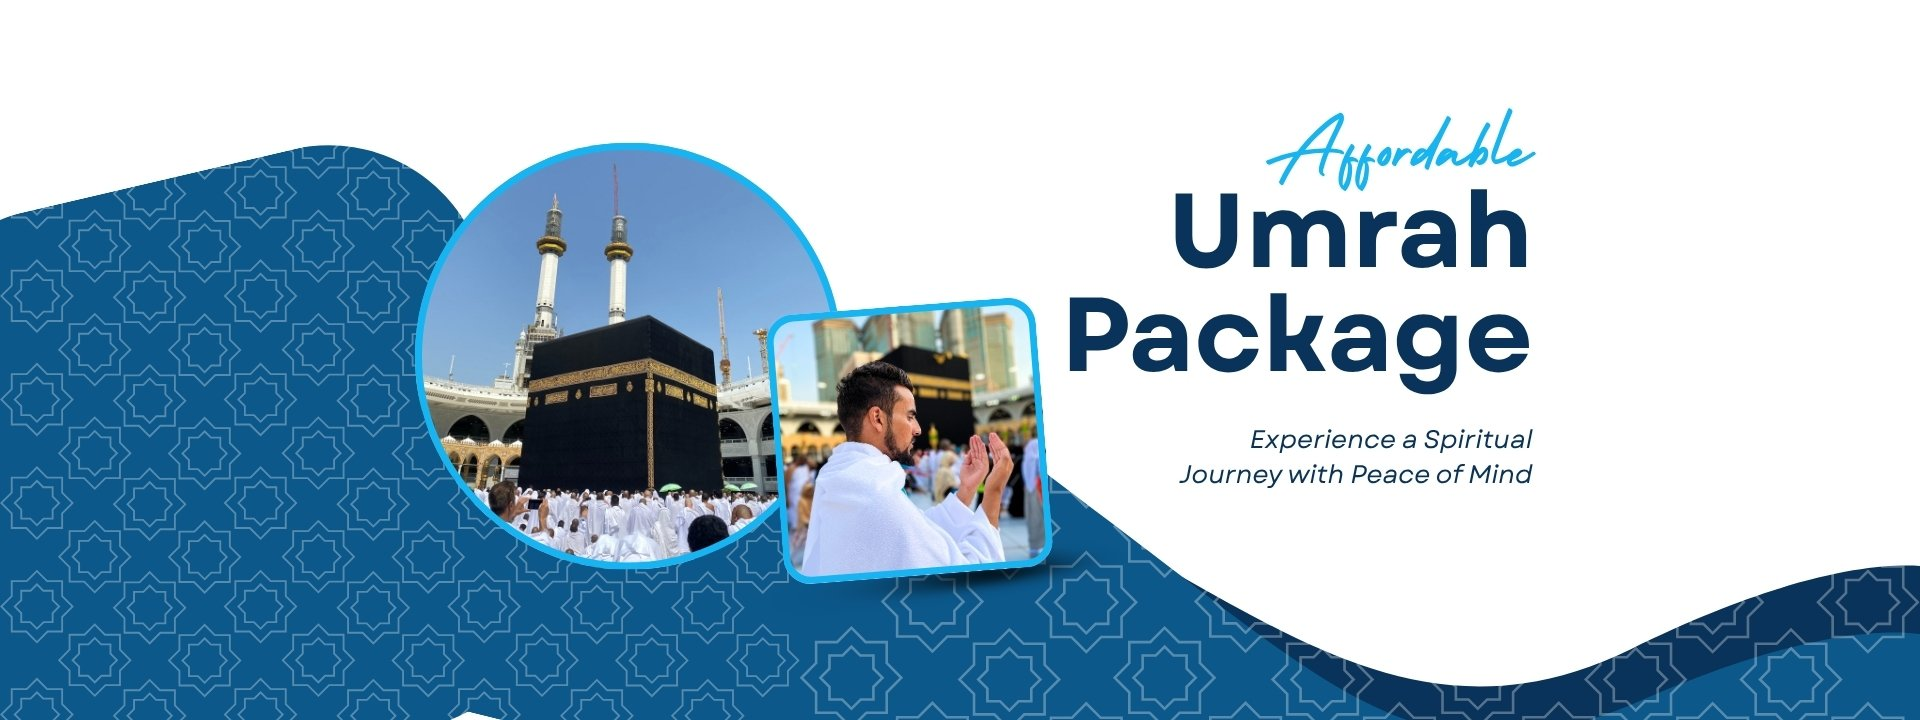
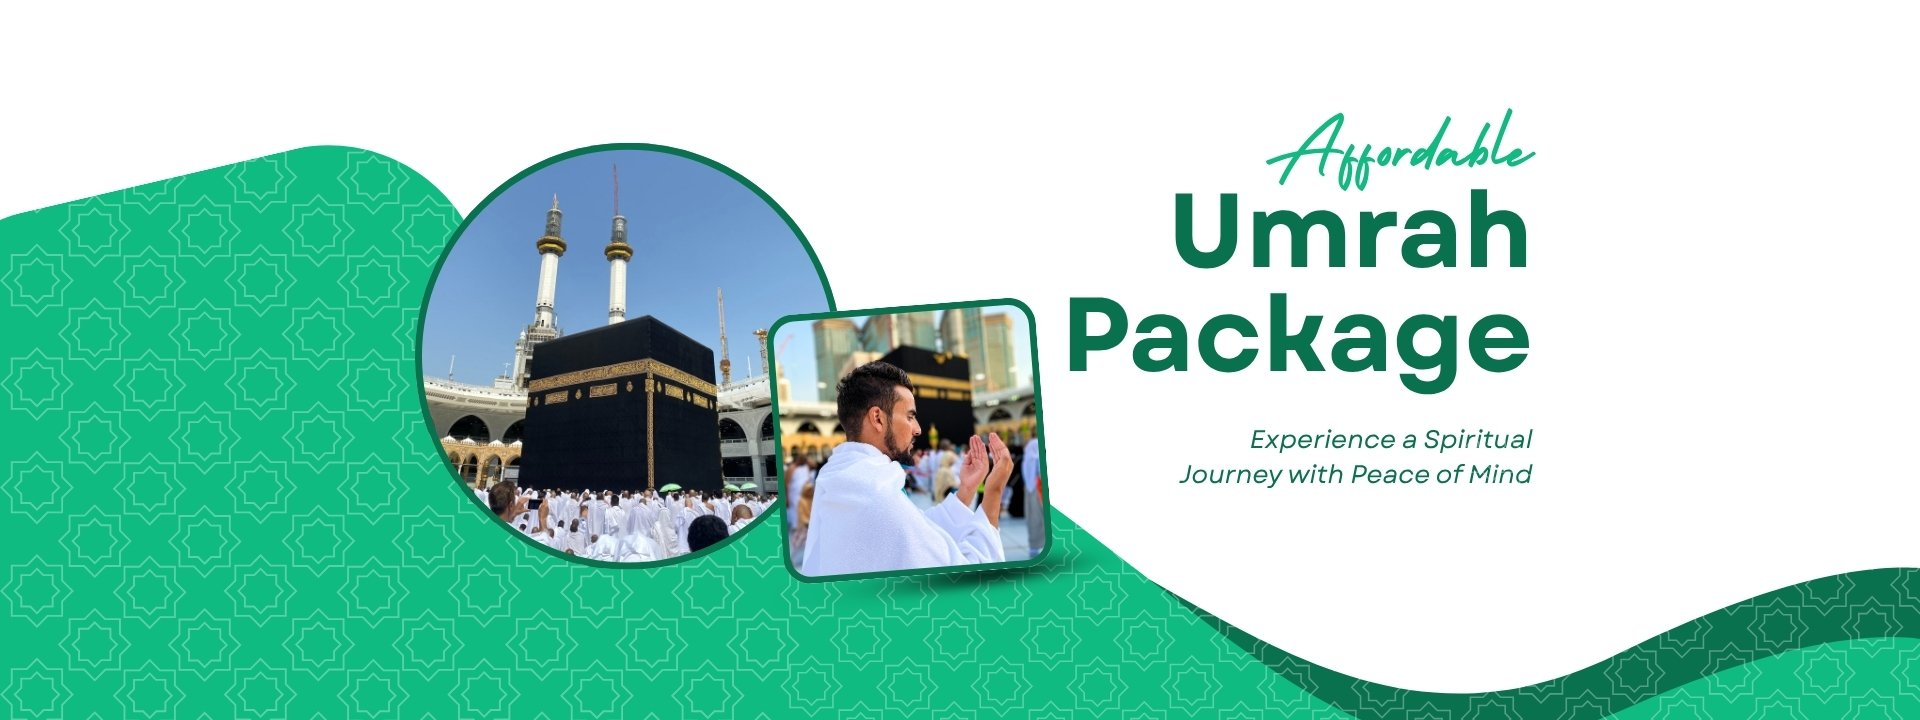
group pkg detail pg

diff --git a/src/pages/PackageDetailDynamic.tsx b/src/pages/PackageDetailDynamic.tsx
@@ -7,7 +7,7 @@ import { Tabs, TabsList, TabsTrigger, TabsContent } from '@/components/ui/tabs';
 import { Card, CardHeader, CardTitle, CardContent } from '@/components/ui/card';
 import { Badge } from '@/components/ui/badge';
 import { Button } from '@/components/ui/button';
-import { Users, Plane, Calendar, Star, CheckCircle, CreditCard, Info, MapPin, Utensils, X, Bed } from 'lucide-react';
+import { Users, Plane, Calendar, Star, CheckCircle, CreditCard, Info, MapPin, Utensils, X, Bed, Sparkles } from 'lucide-react';
 import ResponsiveBanner from '../components/ResponsiveBanner';
 
 const PackageDetailDynamic = () => {
@@ -95,7 +95,7 @@ const PackageDetailDynamic = () => {
     const fetchActivities = async () => {
       const { data, error } = await supabase
         .from('activities')
-        .select('id, name, description')
+        .select('id, name, description, featured_image')
         .in('id', pkg.activities);
       if (!error && data) setActivityDetails(data);
     };
@@ -185,67 +185,78 @@ const PackageDetailDynamic = () => {
                 <TabsTrigger value="pricing" className="flex-1 text-center data-[state=active]:bg-[#023f3a] data-[state=active]:text-white rounded-lg font-medium py-3">Pricing</TabsTrigger>
                 <TabsTrigger value="terms" className="flex-1 text-center data-[state=active]:bg-[#023f3a] data-[state=active]:text-white rounded-lg font-medium py-3">Terms</TabsTrigger>
               </TabsList>
-              {/* Overview Tab */}
+              {/* Enhanced Overview Tab Layout */}
               <TabsContent value="overview" className="space-y-8">
-                {/* Package Title and Description */}
-                <div className="mb-6">
-                  <h2 className="text-3xl font-bold text-gray-900 mb-2">{pkg.title}</h2>
-                  {pkg.description && <p className="text-lg text-gray-700">{pkg.description}</p>}
+                {/* Hero Card */}
+                <div className="mb-8 bg-gradient-to-br from-emerald-50 to-white rounded-2xl shadow-xl p-8 border border-emerald-200 animate-fade-in-up">
+                  <div className="flex flex-wrap gap-3 items-center mb-2">
+                    {pkg.package_type && (
+                      <span className="inline-flex items-center bg-blue-100 text-blue-800 font-bold px-3 py-1 rounded-full text-sm shadow border border-blue-200">
+                        🕋 {pkg.package_type === 'group' ? 'Group Package' : pkg.package_type === 'independent' ? 'Independent Package' : pkg.package_type}
+                      </span>
+                    )}
+                    {pkg.package_category && (
+                      <span className="inline-flex items-center bg-emerald-100 text-emerald-800 font-bold px-3 py-1 rounded-full text-sm shadow border border-emerald-200">
+                        {pkg.package_category}
+                      </span>
+                    )}
+                  </div>
+                  <h1 className="text-4xl md:text-5xl font-extrabold text-emerald-900 leading-tight drop-shadow mb-2">{pkg.name}</h1>
+                  {pkg.description && (
+                    <p className="text-lg md:text-xl text-gray-700 leading-relaxed mb-4 prose max-w-none">{pkg.description}</p>
+                  )}
+                  {/* Quick Facts Row */}
+                  <div className="flex flex-wrap gap-3 items-center mt-4">
+                    <span className="inline-flex items-center bg-emerald-50 text-emerald-800 px-3 py-1 rounded-full text-sm font-medium gap-1"><Calendar className="w-4 h-4" />{pkg.duration}</span>
+                    {pkg.departure_date && (
+                      <span className="inline-flex items-center bg-blue-50 text-blue-800 px-3 py-1 rounded-full text-sm font-medium gap-1"><Plane className="w-4 h-4" />{new Date(pkg.departure_date).toLocaleDateString()}</span>
+                    )}
+                    {pkg.cities_covered && pkg.cities_covered.length > 0 && (
+                      <span className="inline-flex items-center bg-yellow-50 text-yellow-800 px-3 py-1 rounded-full text-sm font-medium gap-1"><MapPin className="w-4 h-4" />{pkg.cities_covered.join(' & ')}</span>
+                    )}
+                    <span className="inline-flex items-center bg-emerald-100 text-emerald-900 px-3 py-1 rounded-full text-sm font-bold gap-1"><CreditCard className="w-4 h-4" />{getCurrencySymbol(pkg.currency)}{pkg.price?.toLocaleString()}</span>
+                  </div>
                 </div>
-                {/* Flight Info */}
-                <Card>
-                  <CardHeader>
-                    <CardTitle className="flex items-center"><Plane className="w-6 h-6 mr-2 text-blue-600" />Flight Information</CardTitle>
-                  </CardHeader>
-                  <CardContent>
-                    <div className="grid md:grid-cols-3 gap-6">
-                      <div><span className="font-semibold text-gray-700">Route:</span><p className="text-gray-600">{pkg.flight_details?.departure} → {pkg.flight_details?.arrival}</p></div>
-                      <div><span className="font-semibold text-gray-700">Duration:</span><p className="text-gray-600">{pkg.flight_details?.duration}</p></div>
-                      <div><span className="font-semibold text-gray-700">Aircraft:</span><p className="text-gray-600">{pkg.flight_details?.aircraft}</p></div>
-                      <div><span className="font-semibold text-gray-700">Airline:</span><p className="text-gray-600">{pkg.flight_details?.airline}</p></div>
-                      <div><span className="font-semibold text-gray-700">Type:</span><p className="text-gray-600">{pkg.flight_details?.type}</p></div>
-                      <div><span className="font-semibold text-gray-700">Baggage:</span><p className="text-gray-600">{pkg.flight_details?.baggage}</p></div>
-                    </div>
-                  </CardContent>
-                </Card>
-                {/* Meal Plan */}
-                {pkg.meal_plan && (
-                  <Card>
-                    <CardHeader>
-                      <CardTitle className="flex items-center"><Utensils className="w-6 h-6 mr-2 text-orange-600" />Meal Plan - {pkg.meal_plan?.type}</CardTitle>
-                    </CardHeader>
-                    <CardContent>
-                      <div className="mb-2 text-orange-900 font-semibold">{pkg.meal_plan?.description}</div>
-                      <div className="grid grid-cols-2 md:grid-cols-3 gap-2">
-                        {pkg.meal_plan?.details?.map((item: string, i: number) => (
-                          <div key={i} className="flex items-center gap-2 p-2 bg-orange-50 rounded-lg"><CheckCircle className="w-4 h-4 text-orange-600" />{item}</div>
-                        ))}
-                      </div>
-                    </CardContent>
-                  </Card>
-                )}
-                {/* Inclusions/Exclusions */}
-                <div className="grid md:grid-cols-2 gap-6">
-                  <Card>
-                    <CardHeader><CardTitle className="text-emerald-600 flex items-center gap-2"><CheckCircle className="w-5 h-5" />What's Included</CardTitle></CardHeader>
-                    <CardContent>
-                      <ul className="space-y-2">
-                        {pkg.inclusions?.map((item: string, i: number) => (
-                          <li key={i} className="flex items-center gap-2 text-emerald-800"><CheckCircle className="w-4 h-4" />{item}</li>
-                        ))}
-                      </ul>
-                    </CardContent>
-                  </Card>
-                  <Card>
-                    <CardHeader><CardTitle className="text-red-600 flex items-center gap-2"><X className="w-5 h-5" />What's Not Included</CardTitle></CardHeader>
-                    <CardContent>
-                      <ul className="space-y-2">
-                        {pkg.exclusions?.map((item: string, i: number) => (
-                          <li key={i} className="flex items-center gap-2 text-red-700"><X className="w-4 h-4" />{item}</li>
-                        ))}
-                      </ul>
-                    </CardContent>
-                  </Card>
+                {/* Info Cards Row */}
+                <div className="grid grid-cols-1 md:grid-cols-2 gap-6 animate-fade-in-up">
+                  {/* Flight Info Card */}
+                  <div className="bg-blue-50 rounded-xl shadow p-6 border border-blue-200 flex flex-col gap-2">
+                    <div className="flex items-center gap-2 mb-2"><Plane className="w-5 h-5 text-blue-500" /><span className="font-bold text-blue-900">Flight Info</span></div>
+                    <div className="text-blue-900 font-medium">Airline: <span className="font-normal">{pkg.flight_details?.airline_name || '-'}</span></div>
+                    <div className="text-blue-900 font-medium">Type: <span className="font-normal">{pkg.flight_details?.flight_type || '-'}</span></div>
+                  </div>
+                  {/* Meal Plan Card */}
+                  <div className="bg-yellow-50 rounded-xl shadow p-6 border border-yellow-200 flex flex-col gap-2">
+                    <div className="flex items-center gap-2 mb-2"><Utensils className="w-5 h-5 text-yellow-600" /><span className="font-bold text-yellow-900">Meal Plan</span></div>
+                    <div className="text-yellow-900 font-medium">{pkg.meal_plan || '-'}</div>
+                  </div>
+                </div>
+                {/* Inclusions/Exclusions Row */}
+                <div className="grid grid-cols-1 md:grid-cols-2 gap-6 animate-fade-in-up">
+                  {/* Inclusions Card */}
+                  <div className="bg-emerald-50 rounded-xl shadow p-6 border border-emerald-200">
+                    <div className="flex items-center gap-2 mb-2"><CheckCircle className="w-5 h-5 text-emerald-600" /><span className="font-bold text-emerald-900">Inclusions</span></div>
+                    <ul className="list-disc pl-5 text-emerald-900 space-y-1">
+                      {(pkg.inclusions || []).slice(0, 5).map((item: string, i: number) => (
+                        <li key={i}>{item}</li>
+                      ))}
+                      {pkg.inclusions && pkg.inclusions.length > 5 && (
+                        <li className="text-xs text-emerald-700 font-semibold">+{pkg.inclusions.length - 5} more</li>
+                      )}
+                    </ul>
+                  </div>
+                  {/* Exclusions Card */}
+                  <div className="bg-rose-50 rounded-xl shadow p-6 border border-rose-200">
+                    <div className="flex items-center gap-2 mb-2"><X className="w-5 h-5 text-rose-600" /><span className="font-bold text-rose-900">Exclusions</span></div>
+                    <ul className="list-disc pl-5 text-rose-900 space-y-1">
+                      {(pkg.exclusions || []).slice(0, 5).map((item: string, i: number) => (
+                        <li key={i}>{item}</li>
+                      ))}
+                      {pkg.exclusions && pkg.exclusions.length > 5 && (
+                        <li className="text-xs text-rose-700 font-semibold">+{pkg.exclusions.length - 5} more</li>
+                      )}
+                    </ul>
+                  </div>
                 </div>
               </TabsContent>
               {/* Hotels Tab */}
@@ -299,26 +310,50 @@ const PackageDetailDynamic = () => {
                   <CardHeader><CardTitle className="flex items-center"><Calendar className="w-6 h-6 mr-2 text-purple-600" />Day-by-Day Itinerary</CardTitle></CardHeader>
                   <CardContent>
                     {pkg.itinerary && Array.isArray(pkg.itinerary) && pkg.itinerary.length > 0 ? (
-                      <div className="space-y-4">
-                        {pkg.itinerary.map((item: any, idx: number) => (
-                          <div key={idx} className="border rounded-lg p-4">
-                            <div className="flex items-center gap-4 mb-2">
-                              <div className="w-8 h-8 bg-emerald-100 text-emerald-600 rounded-full flex items-center justify-center font-semibold">{item.day || idx + 1}</div>
-                              <h4 className="font-semibold text-gray-900">{item.location || item.title || 'Location TBA'}</h4>
+                      <div className="relative pl-8">
+                        <div className="absolute left-2 top-0 bottom-0 w-1 bg-emerald-100 rounded" />
+                        {pkg.itinerary.map((item: any, idx: number) => {
+                          // Determine day type and icon
+                          const dayTitle = (item.location || item.title || '').toLowerCase();
+                          let dotColor = 'bg-emerald-500';
+                          let borderColor = 'border-emerald-100';
+                          let Icon = MapPin;
+                          if (dayTitle.includes('arrival') || dayTitle.includes('depart')) {
+                            dotColor = 'bg-blue-500';
+                            borderColor = 'border-blue-100';
+                            Icon = Plane;
+                          } else if (dayTitle.includes('ziyarah') || dayTitle.includes('special')) {
+                            dotColor = 'bg-yellow-500';
+                            borderColor = 'border-yellow-100';
+                            Icon = Star;
+                          } else if (dayTitle.includes('free')) {
+                            dotColor = 'bg-purple-500';
+                            borderColor = 'border-purple-100';
+                            Icon = Sparkles;
+                          }
+                          return (
+                            <div key={idx} className="relative mb-8 animate-fade-in-up" style={{ animationDelay: `${idx * 80}ms` }}>
+                              <div className={`absolute -left-4 top-2 w-8 h-8 ${dotColor} text-white rounded-full flex items-center justify-center font-bold shadow transition-colors duration-300`}>
+                                {item.day || idx + 1}
+                              </div>
+                              <div className={`ml-8 bg-white rounded-xl shadow p-6 border ${borderColor} transition-colors duration-300 flex flex-col gap-2`}>
+                                <div className="flex items-center gap-2 mb-2">
+                                  <Icon className="w-5 h-5" />
+                                  <span className="font-semibold text-lg">{item.location || item.title || 'Location TBA'}</span>
+                                </div>
+                                <div className="text-gray-700">
+                                  {Array.isArray(item.activities) ? (
+                                    <ul className="list-disc pl-5">
+                                      {item.activities.map((activity: string, i: number) => <li key={i}>{activity}</li>)}
+                                    </ul>
+                                  ) : (
+                                    <p>{item.activities || item.description || 'Activities TBA'}</p>
+                                  )}
+                                </div>
+                              </div>
                             </div>
-                            <div className="ml-12">
-                              {Array.isArray(item.activities) ? (
-                                <ul className="list-disc pl-4 space-y-1">
-                                  {item.activities.map((activity: string, i: number) => (
-                                    <li key={i} className="text-gray-600">{activity}</li>
-                                  ))}
-                                </ul>
-                              ) : (
-                                <p className="text-gray-600">{item.activities || item.description || 'Activities TBA'}</p>
-                              )}
-                            </div>
-                          </div>
-                        ))}
+                          );
+                        })}
                       </div>
                     ) : (
                       <p className="text-gray-500 text-center py-8">Detailed itinerary will be provided upon booking confirmation.</p>
@@ -334,15 +369,15 @@ const PackageDetailDynamic = () => {
                     {activityDetails && activityDetails.length > 0 ? (
                       <div className="space-y-8">
                         {activityDetails.map((activity: any, idx: number) => {
-                          const imgSrc = activity.featured_image || (Array.isArray(activity.images) && activity.images.length > 0 && activity.images[0]) || '/placeholder.svg';
                           return (
                             <div key={activity.id || idx} className="bg-white rounded-xl shadow-md border border-emerald-100 overflow-hidden hover:shadow-lg transition-shadow duration-200 p-6">
                               <div className="clearfix">
                                 <img
-                                  src={imgSrc}
+                                  src={activity.featured_image || '/placeholder.svg'}
                                   alt={activity.name}
                                   className="float-left w-32 h-32 object-cover rounded-lg mr-6 mb-2 border border-emerald-100 shadow"
                                   style={{ maxWidth: '8rem', maxHeight: '8rem' }}
+                                  onError={e => { e.currentTarget.onerror = null; e.currentTarget.src = '/placeholder.svg'; }}
                                 />
                                 <div className="flex flex-col gap-1">
                                   <span className="text-xl font-bold text-emerald-900">{activity.name}</span>
@@ -354,12 +389,6 @@ const PackageDetailDynamic = () => {
                                 {activity.description && (
                                   <div className="text-gray-700 text-base leading-relaxed mt-2" dangerouslySetInnerHTML={{ __html: activity.description }} />
                                 )}
-                              </div>
-                              {/* Debug output for image troubleshooting */}
-                              <div className="mt-2 p-2 bg-gray-50 border text-xs text-gray-500 rounded">
-                                <div><strong>featured_image:</strong> {String(activity.featured_image)}</div>
-                                <div><strong>images:</strong> {Array.isArray(activity.images) ? JSON.stringify(activity.images) : String(activity.images)}</div>
-                                <div><strong>imgSrc used:</strong> {imgSrc}</div>
                               </div>
                             </div>
                           );
@@ -724,6 +753,25 @@ const PackageDetailDynamic = () => {
                 <div className="space-y-3">
                   <Button className="w-full bg-gradient-to-r from-emerald-600 to-teal-600 hover:opacity-90 text-lg py-6 shadow-lg">Book This Package Now</Button>
                   <Button variant="outline" className="w-full border-emerald-600 text-emerald-600 hover:bg-emerald-50">Request Custom Quote</Button>
+                </div>
+                {/* Need Assistance Section */}
+                <hr className="my-6" />
+                <div className="space-y-4">
+                  <div className="font-semibold text-lg">Need Assistance?</div>
+                  <div className="bg-emerald-50 rounded-lg p-4 flex items-center gap-4">
+                    <svg xmlns="http://www.w3.org/2000/svg" className="h-7 w-7 text-emerald-600" fill="none" viewBox="0 0 24 24" stroke="currentColor"><path strokeLinecap="round" strokeLinejoin="round" strokeWidth={2} d="M3 5a2 2 0 012-2h3.28a2 2 0 011.94 1.515l.516 2.064a2 2 0 01-.45 1.958l-1.27 1.27a16.001 16.001 0 006.586 6.586l1.27-1.27a2 2 0 011.958-.45l2.064.516A2 2 0 0121 18.72V21a2 2 0 01-2 2h-1C9.163 23 1 14.837 1 5V4a2 2 0 012-2z" /></svg>
+                    <div>
+                      <div className="font-semibold">Call Us</div>
+                      <div className="text-gray-700">+91-78920-09800</div>
+                    </div>
+                  </div>
+                  <div className="bg-emerald-50 rounded-lg p-4 flex items-center gap-4">
+                    <svg xmlns="http://www.w3.org/2000/svg" className="h-7 w-7 text-emerald-600" fill="none" viewBox="0 0 24 24" stroke="currentColor"><path strokeLinecap="round" strokeLinejoin="round" strokeWidth={2} d="M16 12H8m8 0a4 4 0 10-8 0 4 4 0 008 0zm-8 0V8a4 4 0 018 0v4" /></svg>
+                    <div>
+                      <div className="font-semibold">Email Us</div>
+                      <div className="text-gray-700">support@marhabahaji.com</div>
+                    </div>
+                  </div>
                 </div>
               </CardContent>
             </Card>
